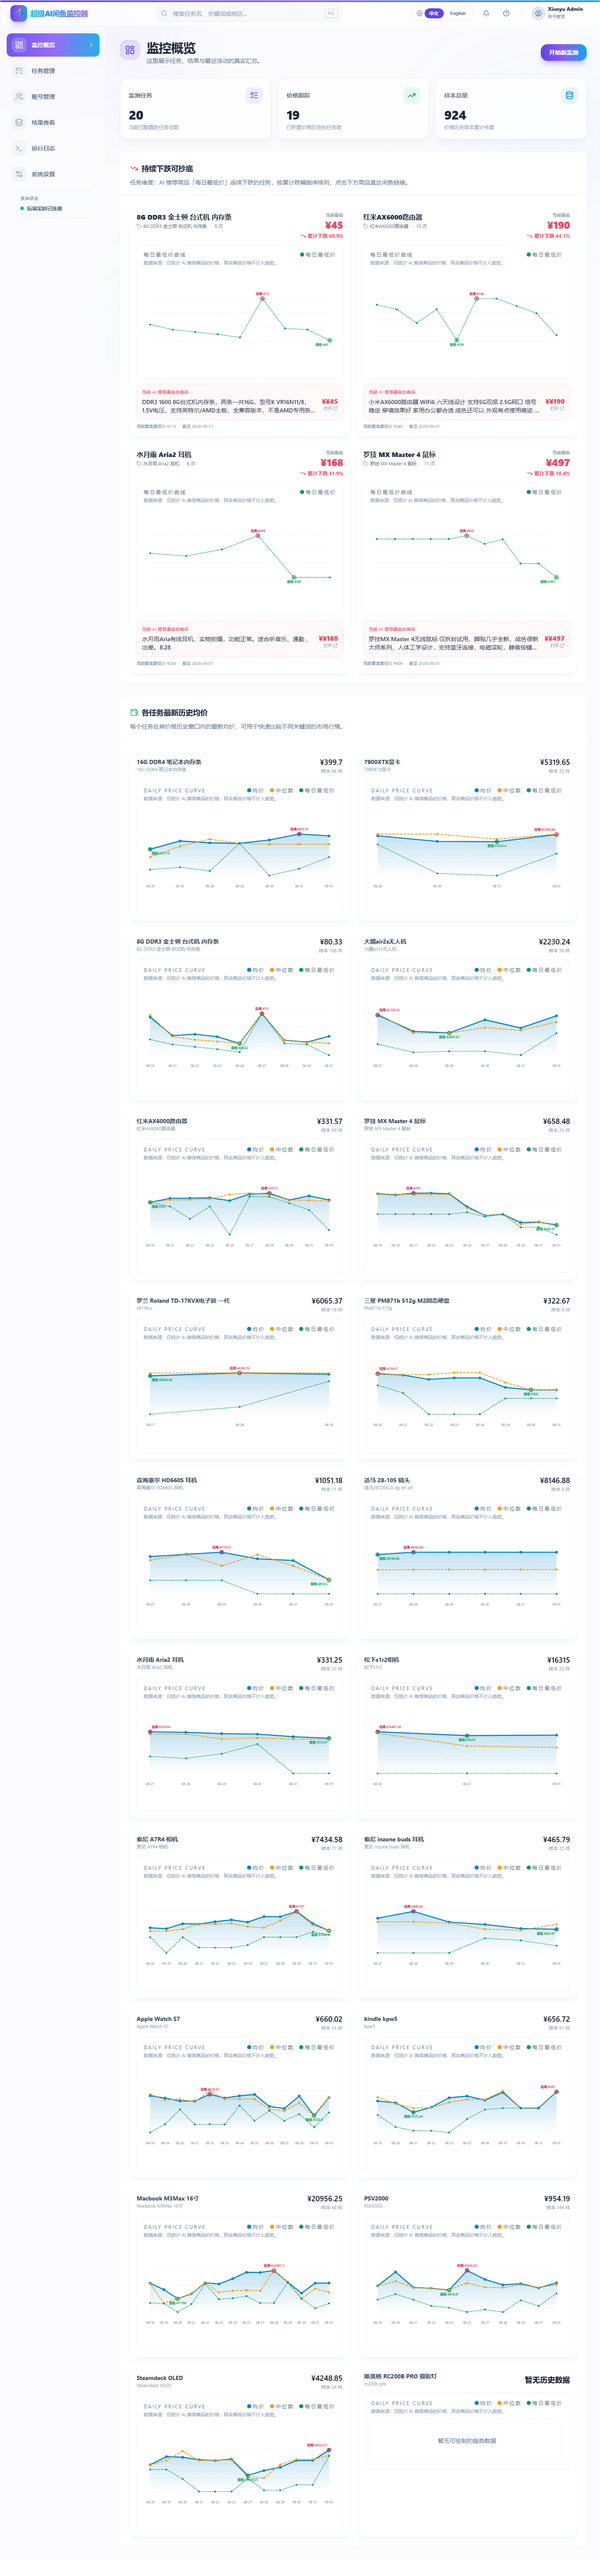
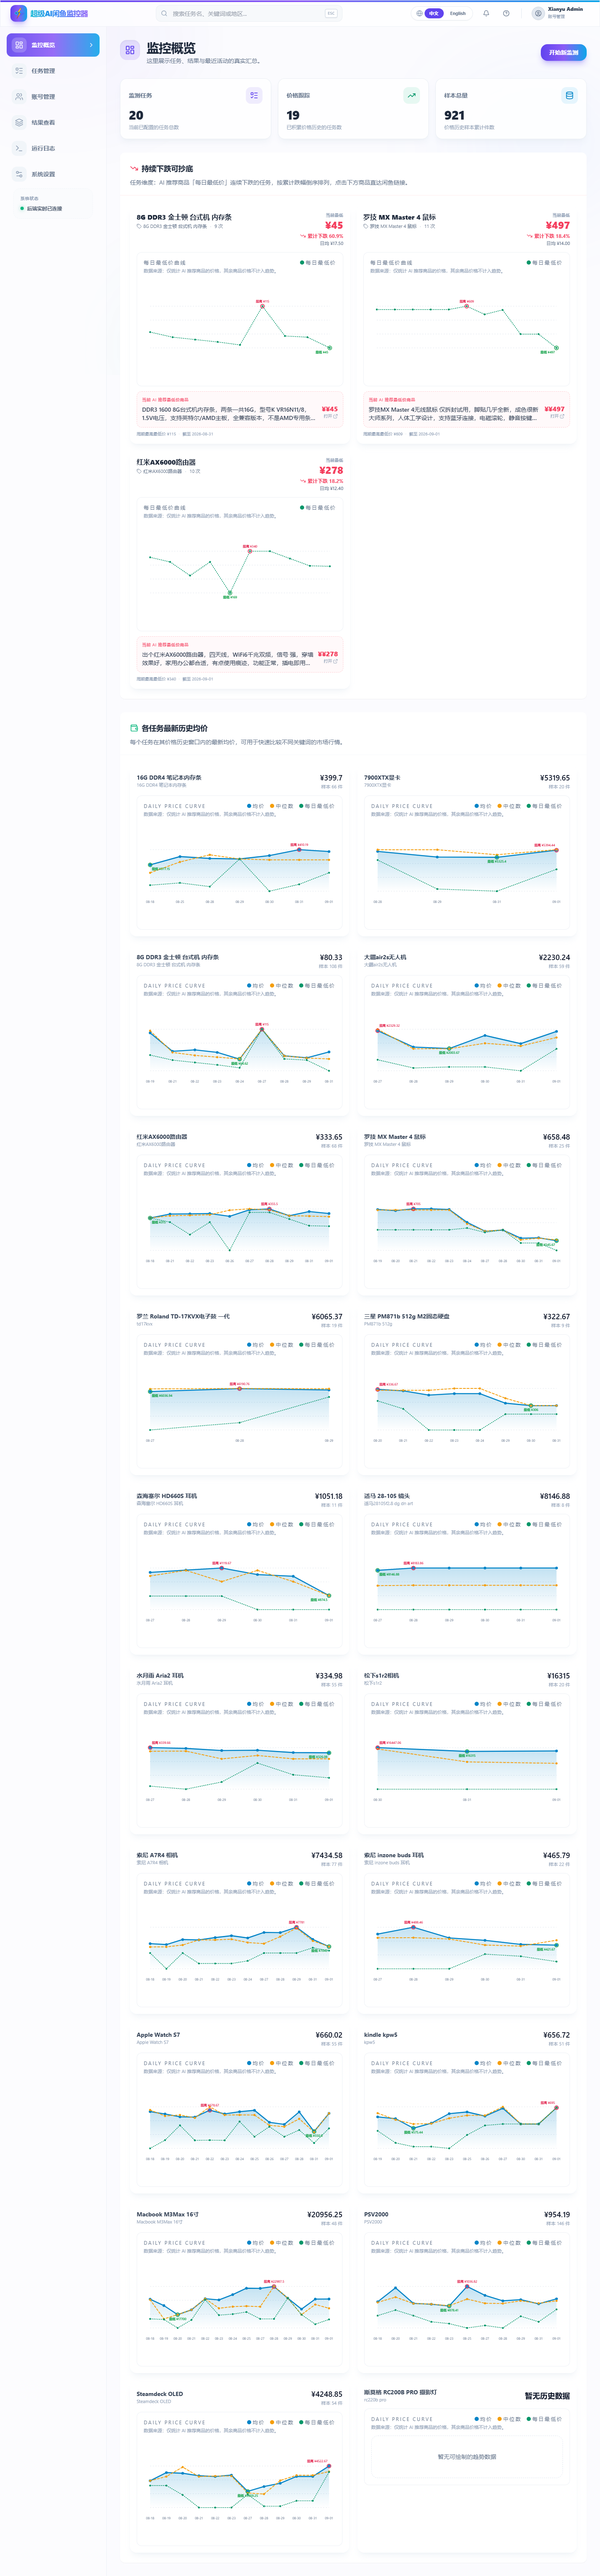
feat(dashboard): 抄底卡片显示「日均下跌金额」
每张抄底卡片在「累计下跌 X%」下方新增一行小字：
日均 ¥X.XX，表示该任务从周期最高价日 → 最新日期间平均每天跌多少元。

后端：
- 新增 _days_between / _avg_daily_decline 辅助函数
- find_declining_dip_tasks 返回值增加 avg_daily_decline / decline_days 字段
- 计算口径：(highest_min - latest_min) / (latest_day - high_day)，
  其中 high_day 取 first occurrence（保留最长跌幅期），单位 元/天

前端：
- DashboardView 卡片右上角新增「日均 ¥X.XX」一行（仅在 decline_days > 1 且 > 0 时显示）
- 加 hover title 给出完整「日均下跌 ¥X.XX」
- 类型与 i18n key 同步补齐（avgDailyDecline / avgDailyDeclineShort）

刷新 dashboard-top/dashboard-overview/tasks-overview 截图。

diff --git a/web-ui/src/views/DashboardView.vue b/web-ui/src/views/DashboardView.vue
@@ -139,6 +139,13 @@ function dipChartPoints(task: { trend: Array<{ day: string; min_price: number; a
                   <TrendingDown class="w-3.5 h-3.5" />
                   <span class="text-xs font-bold">{{ t('dashboard.deals.declinePercent', { percent: Math.abs(task.decline_percent).toFixed(1) }) }}</span>
                 </div>
+                <p
+                  v-if="task.decline_days > 1 && task.avg_daily_decline > 0"
+                  class="mt-0.5 text-[11px] font-medium text-slate-500"
+                  :title="t('dashboard.deals.avgDailyDecline', { amount: task.avg_daily_decline.toFixed(2) })"
+                >
+                  {{ t('dashboard.deals.avgDailyDeclineShort', { amount: task.avg_daily_decline.toFixed(2) }) }}
+                </p>
               </div>
             </div>
 

diff --git a/web-ui/src/i18n/messages/en-US.ts b/web-ui/src/i18n/messages/en-US.ts
@@ -117,7 +117,9 @@ const enUS = {
       empty: 'No persistent drops yet. Keep monitoring to surface dip opportunities.',
       openItem: 'Open',
       declinePercent: '{percent}% drop',
-      snapshotLabel: '{count} snapshots',
+      avgDailyDecline: 'Avg -¥{amount}/day',
+      avgDailyDeclineShort: '-¥{amount}/day',
+      snapshotLabel: '{count} samples',
       latestMinPrice: 'Latest min',
       highestLabel: 'Window high',
       lowestItemTitle: 'Current AI-recommended lowest-price item',

diff --git a/web-ui/src/i18n/messages/zh-CN.ts b/web-ui/src/i18n/messages/zh-CN.ts
@@ -117,6 +117,8 @@ const zhCN = {
       empty: '暂无持续下跌的任务，需要更多监控数据才会出现抄底机会。',
       openItem: '打开',
       declinePercent: '累计下跌 {percent}%',
+      avgDailyDecline: '日均下跌 ¥{amount}',
+      avgDailyDeclineShort: '日均 ¥{amount}',
       snapshotLabel: '样本 {count} 次',
       latestMinPrice: '当前最低',
       highestLabel: '周期最高最低价',

diff --git a/web-ui/src/types/dashboard.d.ts b/web-ui/src/types/dashboard.d.ts
@@ -77,6 +77,8 @@ export interface DashboardDipTask {
   latest_min_price_display: string
   highest_min_price: number
   decline_percent: number
+  avg_daily_decline: number
+  decline_days: number
   trend: DashboardDipTrendPoint[]
   trend_points: number
   lowest_item: DashboardDipLowestItem | null

diff --git a/src/services/price_history_service.py b/src/services/price_history_service.py
@@ -7,7 +7,7 @@ import json
 import math
 import os
 from collections import defaultdict
-from datetime import datetime
+from datetime import date, datetime
 from statistics import median
 from typing import Any, Iterable, Optional
 
@@ -461,6 +461,38 @@ def _has_any_drop(prices: list[float]) -> bool:
     return any(prices[index] > prices[index + 1] for index in range(len(prices) - 1))
 
 
+def _days_between(start_day: str, end_day: str) -> int:
+    """两个 YYYY-MM-DD 日期之间相差的天数（end - start）。"""
+    try:
+        return (date.fromisoformat(end_day) - date.fromisoformat(start_day)).days
+    except ValueError:
+        return 0
+
+
+def _avg_daily_decline(
+    min_series: list[dict],
+    highest_min: float,
+    latest_min: float,
+) -> tuple[float, int]:
+    """根据「最高价日 → 最新日」的天数差，计算平均每日下跌金额（元/天）。
+
+    返回 (avg_daily_decline, decline_days)。
+    decline_days == 0 时退回使用「累计跌幅」本身。
+    """
+    if highest_min <= latest_min:
+        return 0.0, 0
+    first_high_index = next(
+        (i for i, point in enumerate(min_series) if point["min_price"] == highest_min),
+        len(min_series) - 1,
+    )
+    high_day = min_series[first_high_index]["day"]
+    latest_day = min_series[-1]["day"]
+    decline_days = _days_between(high_day, latest_day)
+    if decline_days <= 0:
+        return round(highest_min - latest_min, 2), 0
+    return round((highest_min - latest_min) / decline_days, 2), decline_days
+
+
 def find_declining_dip_tasks(
     keyword_to_ai_ids: dict[str, set[str]],
     *,
@@ -475,13 +507,14 @@ def find_declining_dip_tasks(
     - keyword_to_ai_ids 提供每个关键词下 AI 推荐商品的 item_id 集合。
     - 在 window_days 窗口内的「每日最低价（仅统计 AI 推荐商品）」序列：
       * 至少 min_tail_points 个有效数据点；
-      * 末尾 min_tail_points 个点呈严格单调递减；
+      * 末尾 min_tail_points 个点呈「不递增 + 至少一次严格下跌」；
       * 较窗口内的「每日最低价」最大值累计下跌 ≥ min_decline_percent。
 
     返回按累计跌幅降序排列的最多 max_results 个任务，每个任务包含：
     task_id / task_name / keyword / latest_min_price / highest_min_price /
-    decline_percent / trend（每日 min/avg 序列）/ lowest_item（当前 AI 推荐
-    商品里最低价的那一条）/ first_seen_at / last_seen_at。
+    decline_percent / avg_daily_decline / decline_days / trend（每日 min/avg
+    序列）/ lowest_item（当前 AI 推荐商品里最低价的那一条）/
+    first_seen_at / last_seen_at。
     """
     candidates: list[dict] = []
     for keyword, ai_ids in keyword_to_ai_ids.items():
@@ -514,6 +547,10 @@ def find_declining_dip_tasks(
         if decline_percent >= 0 or abs(decline_percent) < min_decline_percent:
             continue
 
+        avg_daily_decline, decline_days = _avg_daily_decline(
+            min_series, highest_min, latest_min
+        )
+
         lowest_item = _find_lowest_ai_recommended_item(
             keyword=keyword, ai_ids=ai_ids, window_days=window_days
         )
@@ -528,6 +565,8 @@ def find_declining_dip_tasks(
                 "latest_min_price_display": "",
                 "highest_min_price": round(highest_min, 2),
                 "decline_percent": decline_percent,
+                "avg_daily_decline": avg_daily_decline,
+                "decline_days": decline_days,
                 "trend": [
                     {
                         "day": point["day"],
